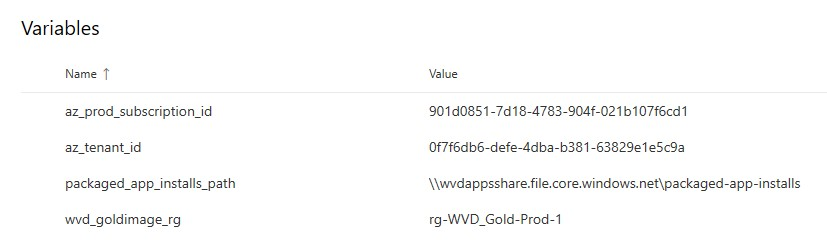
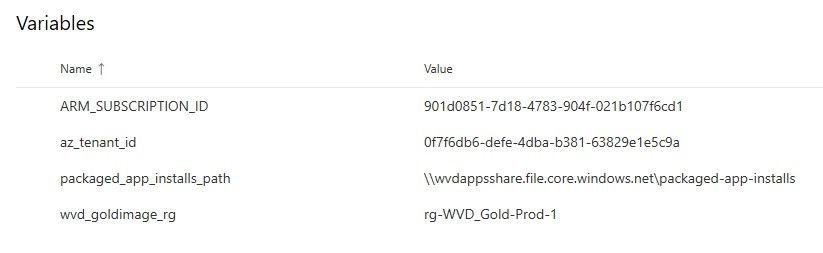
First submit of WVD Devops post

diff --git a/_posts/2019-09-02-windows-virtual-desktop-azure-devops-ci-cd-packer-build-and-release.md b/_posts/2019-09-02-windows-virtual-desktop-azure-devops-ci-cd-packer-build-and-release.md
@@ -72,6 +72,14 @@ So before you get to the TL;DR section, these are some of the cool things I'm go
 
 Most of the ideas for this solution came from [@samcogan](https://twitter.com/samcogan)'s post: [Building Packer Images with Azure DevOps](https://samcogan.com/building-packer-images-with-azure-devops/). Thank's Sam.
 
+# Files
+
+A finished Packer template which creates a Windows 10 1903 (without Office) Azure VM Managed Image: 
+
+* [packer-win10_1903.json](https://github.com/jrudlin/Azure/blob/master/HashiCorpPacker/packer-win10_1903.json).
+
+If you follow the rest of the post, we'll see how this template is built, what the components do and how they integrate with Azure Devops and Azure.
+
 # Azure Devops
 
 ## Pre-reqs / Requirements
@@ -84,13 +92,13 @@ Most of the ideas for this solution came from [@samcogan](https://twitter.com/sa
 * Windows Virtual Desktop **tenant owner** permissions
 * Azure AD **Global Admin** access, or access to create new service principals
 
-## Devops Project
+## Devops Project Setup
 
 ### Outline
 
 The Azure Devops Build Pipeline will be used to run Packer, which takes an Azure Marketplace Win10 1903 EVD image (with or without O365 ProPlus) and builds a VM from it. Once the VM is provisioned, Packer PowerShell Provisioner will connect to an Azure File Share and begin to install your business applications. Once the custom config/apps are finished, Packer will sysprep, shutdown and convert the VM to an Azure VM Image - following this, all the other resources are cleanly removed.
 
-### Devops Project
+### New Devops Project
 
 Start off by creating a new Project in Azure Devops:
 
@@ -144,29 +152,8 @@ Upload the [template](https://github.com/Azure/RDS-Templates/blob/master/wvd-tem
 ![WVDAzureDevops]({{ site.baseurl }}/assets/images/wvd-azure-devops10.jpg)
 ![WVDAzureDevops]({{ site.baseurl }}/assets/images/wvd-azure-devops11.jpg)
 
-Now we need to create a default parameters.json template. The most common defaults for the WVD properties will be stored here, things that hardly ever change like **domain name** - but don't worry, all these properties can be overridden individually during the Build process.
-
-Copy the `$schema`, `contentVersion` and `parameters` sections from the **mainTemplate.json** into a new **parameters.json** file.
-
+You can delete the README.md now (so that it doesn't appear as a Build artifact later on):
 ![WVDAzureDevops]({{ site.baseurl }}/assets/images/wvd-azure-devops12.jpg)
-
-Don't forget the formatting at the end:
-
-![WVDAzureDevops]({{ site.baseurl }}/assets/images/wvd-azure-devops13.jpg)
-
-Upload the **parameters.json** into the **ARM Templates** folder:
-
-![WVDAzureDevops]({{ site.baseurl }}/assets/images/wvd-azure-devops14.jpg)
-
-**Edit** the **parameters.json** file:
-
-![WVDAzureDevops]({{ site.baseurl }}/assets/images/wvd-azure-devops15.jpg)
-
-I've just changed default Managed Disk type to Standard, in case someone forgets to override the disk type later on, the solution will build with the cheapest disks instead of the most expensive :relieved::
-
-![WVDAzureDevops]({{ site.baseurl }}/assets/images/wvd-azure-devops16.jpg)
-
-**Commit** your changes.
 
 #### Packer Template
 
@@ -296,6 +283,16 @@ The secrets are now ready to be securely access from the Build and Release pipel
 
 ![WVDAzureDevops]({{ site.baseurl }}/assets/images/wvd-azure-devops29.jpg)
 
+### Devops Service Connection
+
+We'll also need a connection so that Devops Pipeline Tasks (like the deploy ARM template) can authenticate natively without passing any additional credentials during build time.
+
+The setup is almost identical to the above key vault connection in that you use the **existing Service Principal** again:
+
+![WVDAzureDevops]({{ site.baseurl }}/assets/images/wvd-azure-devops53.jpg)
+
+![WVDAzureDevops]({{ site.baseurl }}/assets/images/wvd-azure-devops22.jpg)
+
 ### Devops Variable Group - Devops
 
 Not all the variables used need to be stored in an Azure Key Vault. It's simpler for variables that don't require encryption, to be stored in standard Devops Variables Groups.
@@ -308,9 +305,9 @@ In your WVD project > Pipelines > Library, create a new Variable Group:
 
 Add the following new variables and their associated values.
 
-* Az Subscription ID and AAD Tenant ID are obvious.
-* Packaged App path is the UNC to the Azure File Share where the app installs are located.
-* The final variable is the name of the Resource Group where the gold image for WVD will be stored after the Packer build completes. **This Resource Group must already exist**.
+* Subscription ID and AAD Tenant ID are obvious.
+* `packaged_app_installs_path` is the **UNC path** to the Azure File Share that was created earlier. 
+* `wvd_goldimage_rg` is the name of the **Resource Group** in Azure, where the gold image for WVD will be stored after the Packer build completes. **This Resource Group must already exist**.
 
 ![WVDAzureDevops]({{ site.baseurl }}/assets/images/wvd-azure-devops32.jpg)
 
@@ -548,7 +545,7 @@ Installing [Chocolatey](https://chocolatey.org/) is also a good idea as many of 
 
           "Invoke-Expression ((New-Object -TypeName net.webclient).DownloadString('https://chocolatey.org/install.ps1'))",
           "& choco feature enable -n allowGlobalConfirmation",
-          "Write-Host \"Chocolatey Installed.\"",
+          "Write-Host \"Chocolatey Installed.\""
       ]
     },
     {
@@ -595,3 +592,168 @@ Soon we'll put the Build Pipeline together so that these values are passed into 
   * I've also disabled realtime Defender scanning to speed up the build time.
   * There's also an example of installing **PowerBI Desktop** from the J: drive (which actually just kicks off a **Chocolatey** install)
   * and an **FSLogix Apps** install example.
+
+You can grab the finished copy of this Packer build template on my Github repo [packer-win10_1903.json](https://github.com/jrudlin/Azure/blob/master/HashiCorpPacker/packer-win10_1903.json).
+
+## Build Pipeline
+
+We are ready to put all the components above together into a Build Pipeline and initiate the build run to generate the Gold image.
+
+As we go through these steps, don't forget to save regularly. You can save into the default root folder: ![WVDAzureDevops]({{ site.baseurl }}/assets/images/wvd-azure-devops59.jpg)
+
+In your **WVD** Devops project:
+
+1. Create a new Build Pipeline: ![WVDAzureDevops]({{ site.baseurl }}/assets/images/wvd-azure-devops39.jpg)
+1. I'm using the **Classic editor** as it's a lot easier to visualise: ![WVDAzureDevops]({{ site.baseurl }}/assets/images/wvd-azure-devops40.jpg)
+1. We already have the Azure Devops Repo created earlier, so leave the defaults: ![WVDAzureDevops]({{ site.baseurl }}/assets/images/wvd-azure-devops41.jpg)
+1. Create an **Empty Job**: ![WVDAzureDevops]({{ site.baseurl }}/assets/images/wvd-azure-devops42.jpg)
+1. As it stands, our Packer template won't take more than 60 mins to complete. **60 mins** is the **max runtime** for a **private** Azure Devops projects using **Devops Hosted Agents**. If the build starts to creep up to 60 mins, consider using [Self-hosted Windows agents](https://docs.microsoft.com/en-gb/azure/devops/pipelines/agents/v2-windows?view=azure-devops#download-and-configure-the-agent) on a low-spec/low-cost Azure VM, as these have unlimited runtime minutes. Also consider making the project public :wink:
+
+   Give the Build a **meaningful name** - this will be used when generating the Azure VM Managed Image name.
+
+   You can use pretty much any agent spec. I've tested on VS2017 and VS2019. **windows-2019** includes **Visual Studio 2019**. ![WVDAzureDevops]({{ site.baseurl }}/assets/images/wvd-azure-devops43.jpg)
+
+
+1. Name the **Agent Job** step and click on the **+** to **add a new task**: ![WVDAzureDevops]({{ site.baseurl }}/assets/images/wvd-azure-devops44.jpg)
+1. Add a **Packer Tool Installer** Task ![WVDAzureDevops]({{ site.baseurl }}/assets/images/wvd-azure-devops45.jpg)
+1. Add a **Build Machine Image** Task ![WVDAzureDevops]({{ site.baseurl }}/assets/images/wvd-azure-devops46.jpg)
+1. Add a **Copy files** Task ![WVDAzureDevops]({{ site.baseurl }}/assets/images/wvd-azure-devops47.jpg)
+1. Install the **Variable Tools** from the Marketplace: ![WVDAzureDevops]({{ site.baseurl }}/assets/images/wvd-azure-devops48.jpg)
+
+   Then add a **Variable Save** Task ![WVDAzureDevops]({{ site.baseurl }}/assets/images/wvd-azure-devops49.jpg)
+1. Finally, add a **Publish Build Artifact** Task ![WVDAzureDevops]({{ site.baseurl }}/assets/images/wvd-azure-devops50.jpg)
+1. Our Build Pipeline now looks like this, but needs some configuration before it's finished: ![WVDAzureDevops]({{ site.baseurl }}/assets/images/wvd-azure-devops51.jpg)
+1. Lets go through each task and perform the appropriate config. The **Packer Tool Installer** defaults will work for us: ![WVDAzureDevops]({{ site.baseurl }}/assets/images/wvd-azure-devops52.jpg)
+1. On the **Build immutable image** task:
+   * The **Packer Template** will be **user provided**
+   * The **template location** will be our **packer-win10_1903.json** that we put so much effort into generating earlier: ![WVDAzureDevops]({{ site.baseurl }}/assets/images/wvd-azure-devops54.jpg)
+   * **Template parameters**: This is where our secure variables will go - the ones from the Azure Key Vault. You can add them using the GUI: ![WVDAzureDevops]({{ site.baseurl }}/assets/images/wvd-azure-devops55.jpg)
+
+     or paste in the below:
+     ```json
+     {"client_id":"$(DevopsVMProvisioningServicePrincipalAppID)","client_secret":"$(DevopsVMProvisioningServicePrincipalSecret)","AppInstallsStorageAccountName":"$(AppInstallsStorageAccountKey1)","AppInstallsStorageAccountKey1":"$(AppInstallsStorageAccountName)"}
+     ```
+   *  **Output** variables. Enter "**BuildImage**" into the "**Image URL or Name**" box: ![WVDAzureDevops]({{ site.baseurl }}/assets/images/wvd-azure-devops56.jpg). This is reference to the exact image generated in this Build. This will be used by the Release to deploy the image in Azure to a WVD Host Pool.
+1. The **Copy files** task essentially just copies static data - the **WVD Arm Template** which is in the Repo. Copying these files into the built-in location that Devops uses allows us to reference these "**artifacts**" during the **Release Pipeline**.
+
+   * Add `$(build.artifactstagingdirectory)` to the **Name**
+   * Select the ARM Template folder: ![WVDAzureDevops]({{ site.baseurl }}/assets/images/wvd-azure-devops57.jpg)
+   * Add `$(build.artifactstagingdirectory)` to the **Target folder** ![WVDAzureDevops]({{ site.baseurl }}/assets/images/wvd-azure-devops58.jpg)
+1. The **Save Build Variables** is a community tool which **converts variables into artifacts**. Variables are lost between Pipelines so we need a way to store the **BuildImage**  name so that it can be **referenced by the Release Pipeline**.
+
+   * Add **BuildImage** to the **Prefixes** box - it will automatically change the Task name ![WVDAzureDevops]({{ site.baseurl }}/assets/images/wvd-azure-devops60.jpg)
+1. **Publish Artifact:** You don't have to change anything, but "drop" isn't helpful, so: ![WVDAzureDevops]({{ site.baseurl }}/assets/images/wvd-azure-devops61.jpg)
+1. Now the **Tasks** are complete, lets add the **Variables** ![WVDAzureDevops]({{ site.baseurl }}/assets/images/wvd-azure-devops66.jpg)
+   * **Link** the **Azure Key Vault Variables** ![WVDAzureDevops]({{ site.baseurl }}/assets/images/wvd-azure-devops67.jpg)
+   * **Link** the **Devops Variables** ![WVDAzureDevops]({{ site.baseurl }}/assets/images/wvd-azure-devops68.jpg)
+   * The **Variables** now looks like this: ![WVDAzureDevops]({{ site.baseurl }}/assets/images/wvd-azure-devops69.jpg) You can use the drop down to view all the variables.
+1. **Options** allow us to configure the job timeout to infinite: ![WVDAzureDevops]({{ site.baseurl }}/assets/images/wvd-azure-devops70.jpg) **Note**: 60mins is the max time on a private repo so 0 won't make any different here, but it's best to change it now in case you have switch **Agent Pools** or project visibility.
+1. Once you have **saved**, the **Queue** option becomes available. Click on this to run the Build: ![WVDAzureDevops]({{ site.baseurl }}/assets/images/wvd-azure-devops62.jpg) ![WVDAzureDevops]({{ site.baseurl }}/assets/images/wvd-azure-devops63.jpg)
+1. The **Hosted Agent** will start and begin to process the tasks: ![WVDAzureDevops]({{ site.baseurl }}/assets/images/wvd-azure-devops64.jpg) ![WVDAzureDevops]({{ site.baseurl }}/assets/images/wvd-azure-devops65.jpg)
+1. Whilst the build is in progress: ![WVDAzureDevops]({{ site.baseurl }}/assets/images/wvd-azure-devops71.jpg) you should see the resources in the Azure portal: ![WVDAzureDevops]({{ site.baseurl }}/assets/images/wvd-azure-devops72.jpg)
+1. Once the build is complete, a new image should exist in the `wvd_goldimage_rg` Resource Group: ![WVDAzureDevops]({{ site.baseurl }}/assets/images/wvd-azure-devops73.jpg) And you should get a confirmation email: ![WVDAzureDevops]({{ site.baseurl }}/assets/images/wvd-azure-devops74.jpg)
+1. In Devops, go to Pipelines > Builds and click on the successful build. In the top right is the **Artifacts** drop down where **Build Image** is selectable: ![WVDAzureDevops]({{ site.baseurl }}/assets/images/wvd-azure-devops90.jpg). You can expand the folder to see all the artifacts: ![WVDAzureDevops]({{ site.baseurl }}/assets/images/wvd-azure-devops91.jpg)
+
+## Release Pipeline
+
+Now we have an **Azure VM Managed Image** and some **Build Artifacts**, we can put together the **Release Pipeline**.
+
+The **Release Pipeline** will use the **Azure VM Managed Image** generated by Packer, to deploy a number of identical VMs into a Windows Virtual Desktop Host Pool using the WVD ARM Template (that's already in our Repo).
+
+Naturally, this assumes you have an existing **WVD environment** that can be **tested** with.
+
+1. Create a **New Release Pipeline** ![WVDAzureDevops]({{ site.baseurl }}/assets/images/wvd-azure-devops75.jpg)
+1. Use an **Empty Job** ![WVDAzureDevops]({{ site.baseurl }}/assets/images/wvd-azure-devops76.jpg)
+1. Add the word "**Validate**" to the **Stage name**: ![WVDAzureDevops]({{ site.baseurl }}/assets/images/wvd-azure-devops77.jpg)
+1. Click on the **Task** ![WVDAzureDevops]({{ site.baseurl }}/assets/images/wvd-azure-devops78.jpg)
+1. Configure the **Agent Specification** (use the same as in the Build Pipeline) ![WVDAzureDevops]({{ site.baseurl }}/assets/images/wvd-azure-devops79.jpg)
+1. **Save** and use the default folder ![WVDAzureDevops]({{ site.baseurl }}/assets/images/wvd-azure-devops80.jpg)
+1. Go to the **Options** tab abd change the **Release name format** to: **REL$(rev:r)** This forms part of the naming convention for the WVD VMs ![WVDAzureDevops]({{ site.baseurl }}/assets/images/wvd-azure-devops93.jpg)
+1. Go to the **Pipeline** tab and **Add an artifact**: ![WVDAzureDevops]({{ site.baseurl }}/assets/images/wvd-azure-devops81.jpg)
+1. Select the **Windows 10 1903 Build Pipeline** from the dropdown: ![WVDAzureDevops]({{ site.baseurl }}/assets/images/wvd-azure-devops82.jpg)
+1. Two additional options will appear. Choose the **Latest version** and then name your **Source alias**. Click **Add** ![WVDAzureDevops]({{ site.baseurl }}/assets/images/wvd-azure-devops83.jpg)
+1. Enable the **Continuous deployment trigger** so that each new Build that finishes succesfully will automatically run the **Validate** Task: ![WVDAzureDevops]({{ site.baseurl }}/assets/images/wvd-azure-devops84.jpg)
+1. **Edit** the **Validate** task again ![WVDAzureDevops]({{ site.baseurl }}/assets/images/wvd-azure-devops85.jpg)
+1. **Add** a : ![WVDAzureDevops]({{ site.baseurl }}/assets/images/wvd-azure-devops86.jpg)
+1. **Add** an **Azure Resource Group Deployment** Task: ![WVDAzureDevops]({{ site.baseurl }}/assets/images/wvd-azure-devops87.jpg)
+1. The **Variable Load Task** can be left as default. It will load the **BuildImage** variable using the json files generated in Build Pipeline ![WVDAzureDevops]({{ site.baseurl }}/assets/images/wvd-azure-devops88.jpg)
+1. In the **Azure Resource Group Deployment** Task:
+    * Using the four drop-downs, choose the **Azure Subscription** of where the WVD VMs will be deployed. The **Action** in this case as we're deploying an ARM Template has to be **Create or update resource group**. The RG is where is the WVD VMs will end up. And finally the **Location**/region in Azure. ![WVDAzureDevops]({{ site.baseurl }}/assets/images/wvd-azure-devops89.jpg)
+    * **Template location** - **Linked artifact**
+    * **Template** - reference the artifact: **mainTemplate.json** ![WVDAzureDevops]({{ site.baseurl }}/assets/images/wvd-azure-devops92.jpg) ![WVDAzureDevops]({{ site.baseurl }}/assets/images/wvd-azure-devops94.jpg)
+    * **Template parameters** - leave empty
+    * **Override template parameters**:
+
+      ```json
+      -rdshCustomImageSourceName $(BuildImage)
+      -rdshCustomImageSourceResourceGroup $(wvd_goldimage_rg)
+      -rdshNamePrefix "VM-WVD-$(Release.ReleaseName)"
+      -rdshNumberOfInstances 4
+      -rdshVmSize "Standard_D8s_v3"
+      -rdshUseManagedDisks "true"
+      -rdshImageSource "CustomImage"
+      -domainToJoin "ad.domain.local"
+      -existingDomainUPN "$(DomainJoinAccountUPN)"
+      -existingDomainPassword "$(DomainJoinAccountPassword)"
+      -ouPath "OU=WVD,OU=Machines,DC=ad,DC=domain,DC=local"
+      -hostPoolName "HP-WVD-Prod-1"
+      -tenantAdminUpnOrApplicationId "$(WVDServicePrincipalAppID)"
+      -tenantAdminPassword "$(WVDServicePrincipalSecret)"
+      -existingVnetName "VNET-PROD-1"
+      -existingSubnetName "Subnet-VDI-Prod-1"
+      -location "uksouth"
+      -virtualNetworkResourcegroupName "rg-VNET-Prod-1"
+      -existingTenantName "WVD Tenant Name"
+      -aadTenantId "$(az_tenant_id)"
+      -isServicePrincipal "true"
+      ```
+
+      So all the values above starting with a `$` should come from your variable groups. Everything you should customise for your environment.
+
+      ![WVDAzureDevops]({{ site.baseurl }}/assets/images/wvd-azure-devops95.jpg)
+
+   * **Deployment Mode** in this Task should be **Validation only**. This will check we have specified all of the correct parameters against our ARM Template. ![WVDAzureDevops]({{ site.baseurl }}/assets/images/wvd-azure-devops96.jpg)
+
+   * The rest of the options remain as default. Don't forget to **Save** at the top
+
+1. Back on the Pipelines tab you should see something like this: ![WVDAzureDevops]({{ site.baseurl }}/assets/images/wvd-azure-devops97.jpg)
+
+1. Now so far we are only **validating the template**, now we need a new task that actually creates a **Resource Group deployment** for the WVD VMs. **Clone** the existing Task: ![WVDAzureDevops]({{ site.baseurl }}/assets/images/wvd-azure-devops98.jpg)
+
+1. Now the choice is yours. As it is, after the **Validation** task completes successfully, providing we make some changes the steps within the task, it will automatically create a Resource Group deployment. I'm going to change the deployment Task so that it doesn't automatically run - as I like to plan for UAT, I want to run the deployment task manually.
+
+   * Click on the **Pre-deployment conditions**: ![WVDAzureDevops]({{ site.baseurl }}/assets/images/wvd-azure-devops99.jpg)
+
+   * Choose **Manual only**: ![WVDAzureDevops]({{ site.baseurl }}/assets/images/wvd-azure-devops100.jpg)
+
+   * Edit the new Task: ![WVDAzureDevops]({{ site.baseurl }}/assets/images/wvd-azure-devops101.jpg)
+
+   * Change the **Stage name**: ![WVDAzureDevops]({{ site.baseurl }}/assets/images/wvd-azure-devops102.jpg)
+
+   * Click the **Azure Resource Group Deployment** step and change the **Deployment mode** to **Incremental**: ![WVDAzureDevops]({{ site.baseurl }}/assets/images/wvd-azure-devops103.jpg)
+
+   * **Save**
+
+   * Back on the **Pipelines tab**, it should look like this: ![WVDAzureDevops]({{ site.baseurl }}/assets/images/wvd-azure-devops104.jpg)
+
+1. This time round, we'll kick off a manual release, as the **Build** has already completed, but from herein after, a **Release** will be automatically generated after each successful Build - and the **Validation** stage will run.
+
+   * Click on **Create release**: ![WVDAzureDevops]({{ site.baseurl }}/assets/images/wvd-azure-devops105.jpg)
+
+   * Leave the dedaults and hit **Create**. Only the **Validation** stage will run. ![WVDAzureDevops]({{ site.baseurl }}/assets/images/wvd-azure-devops106.jpg)
+
+   * Check the **status** of the ***Release**: ![WVDAzureDevops]({{ site.baseurl }}/assets/images/wvd-azure-devops107.jpg)
+
+   * The **Validation** stage has succeeeded: ![WVDAzureDevops]({{ site.baseurl }}/assets/images/wvd-azure-devops108.jpg)
+
+1. Now now that the ARM template has succeeded in validation, we can manually run the **Deploy** stage which will actually initate the Resource Group deployment. x number of Win10 Azure VMs will be created and added to your desired WVD Host Pool: ![WVDAzureDevops]({{ site.baseurl }}/assets/images/wvd-azure-devops109.jpg)
+
+   * Resources deployed in Azure: ![WVDAzureDevops]({{ site.baseurl }}/assets/images/wvd-azure-devops110.jpg)
+
+   * VMs available in the WVD Host Pool: ![WVDAzureDevops]({{ site.baseurl }}/assets/images/wvd-azure-devops111.jpg)
+
+# Final Word
+
+I very much doubt you made it this far - to be honest, I struggled myself. But if you did, I think you'll see that you can now quickly edit the Packer template, run a Build, and then Deploy a Release, all within the space of an hour.
+
+This brings a lot of moving parts together into one slick solution, with great logging and the option of a fully enabled CI/CD Pipeline.
